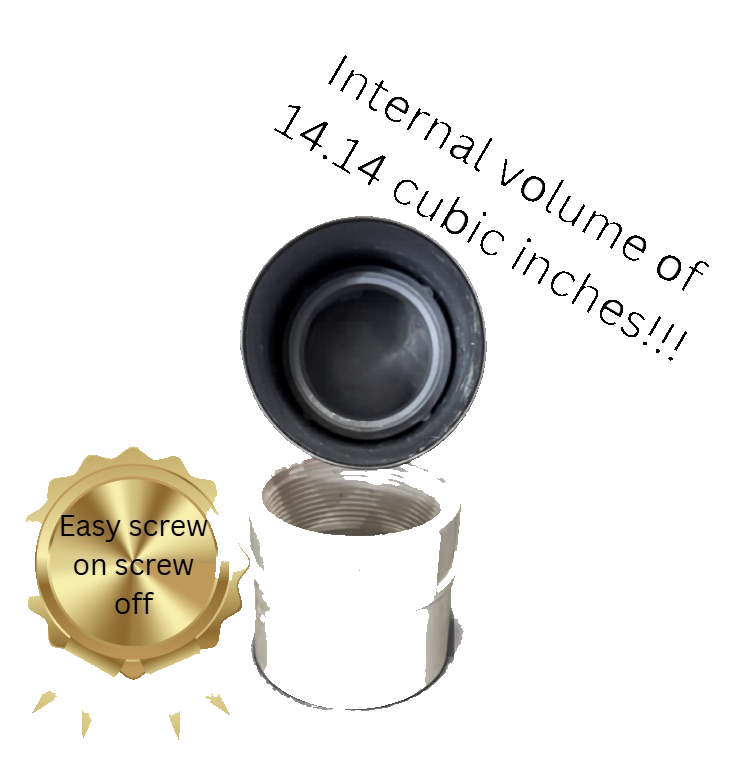
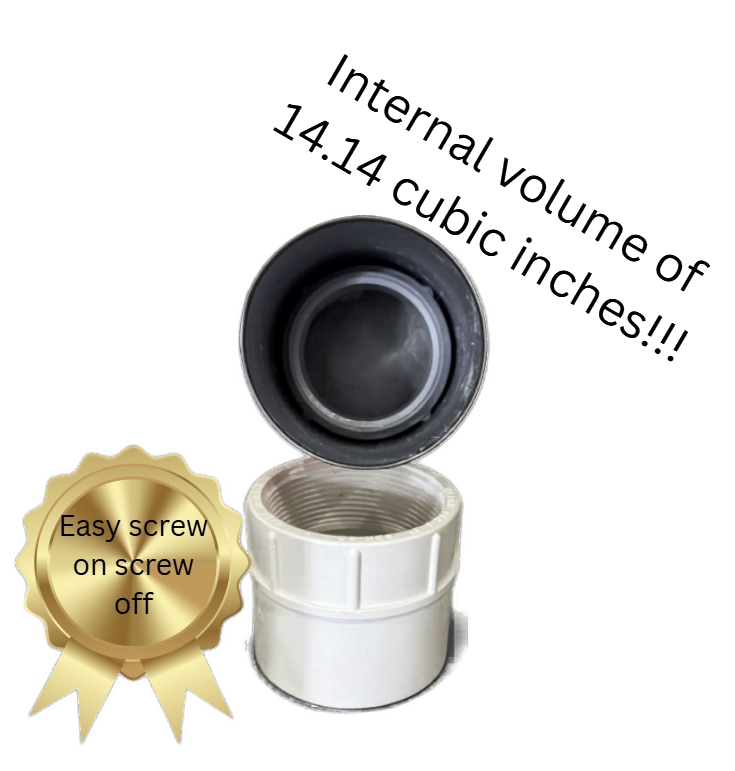
Replace hero cutouts with rembg-plus-text composites

diff --git a/index.html b/index.html
@@ -54,10 +54,10 @@
               <img src="assets/product-can.png?v=20260415c" alt="SnackSafe hidden in pantry">
             </figure>
             <figure class="carousel-slide carousel-slide-transparent" data-index="1">
-              <img src="assets/product-detail-cutout.png?v=20260415f" alt="SnackSafe internal compartment">
+              <img src="assets/product-detail-cutout.png?v=20260415g" alt="SnackSafe internal compartment">
             </figure>
             <figure class="carousel-slide carousel-slide-transparent" data-index="2">
-              <img src="assets/product-can-main-cutout.png?v=20260415f" alt="SnackSafe product can">
+              <img src="assets/product-can-main-cutout.png?v=20260415g" alt="SnackSafe product can">
             </figure>
           </div>
           <div class="carousel-nav">
